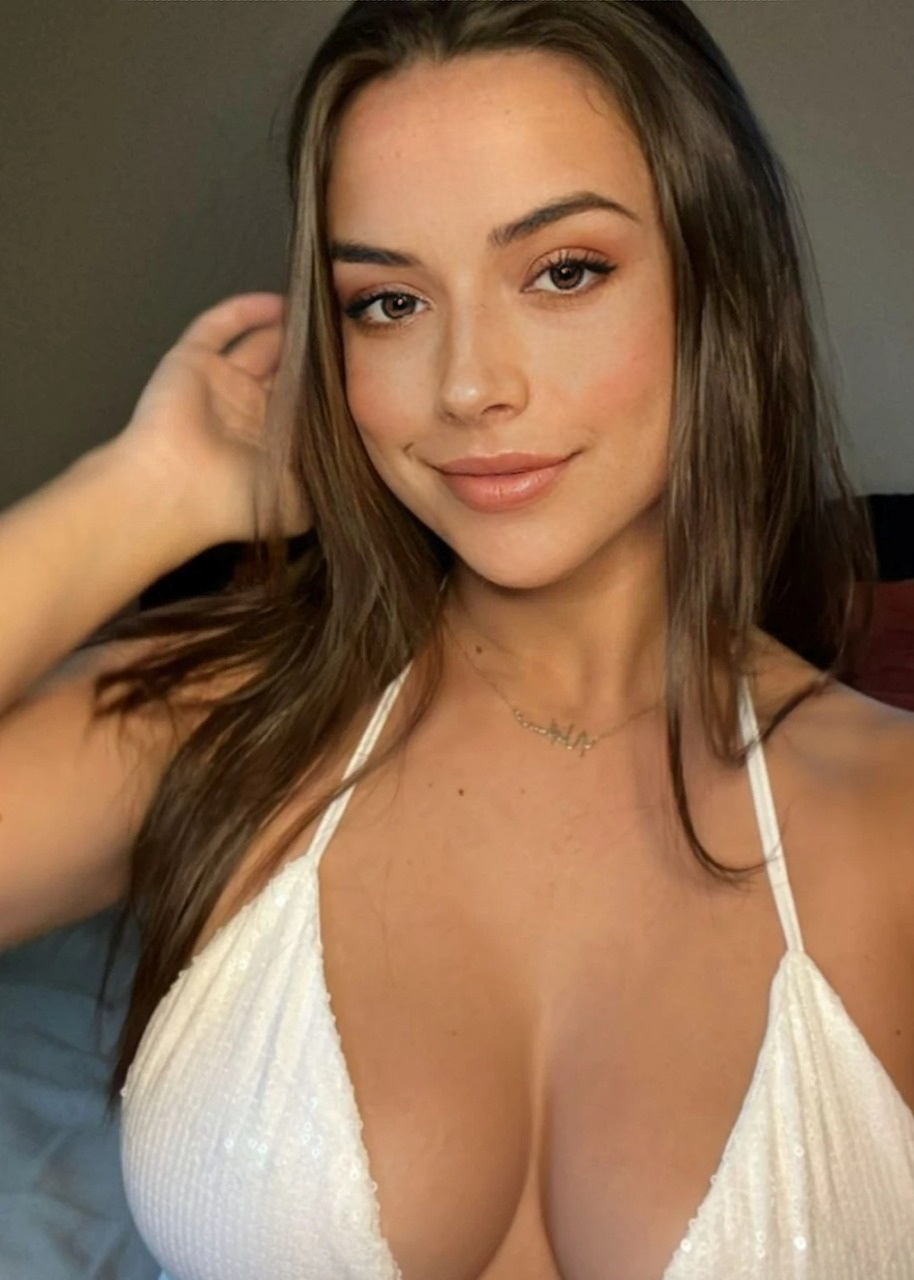
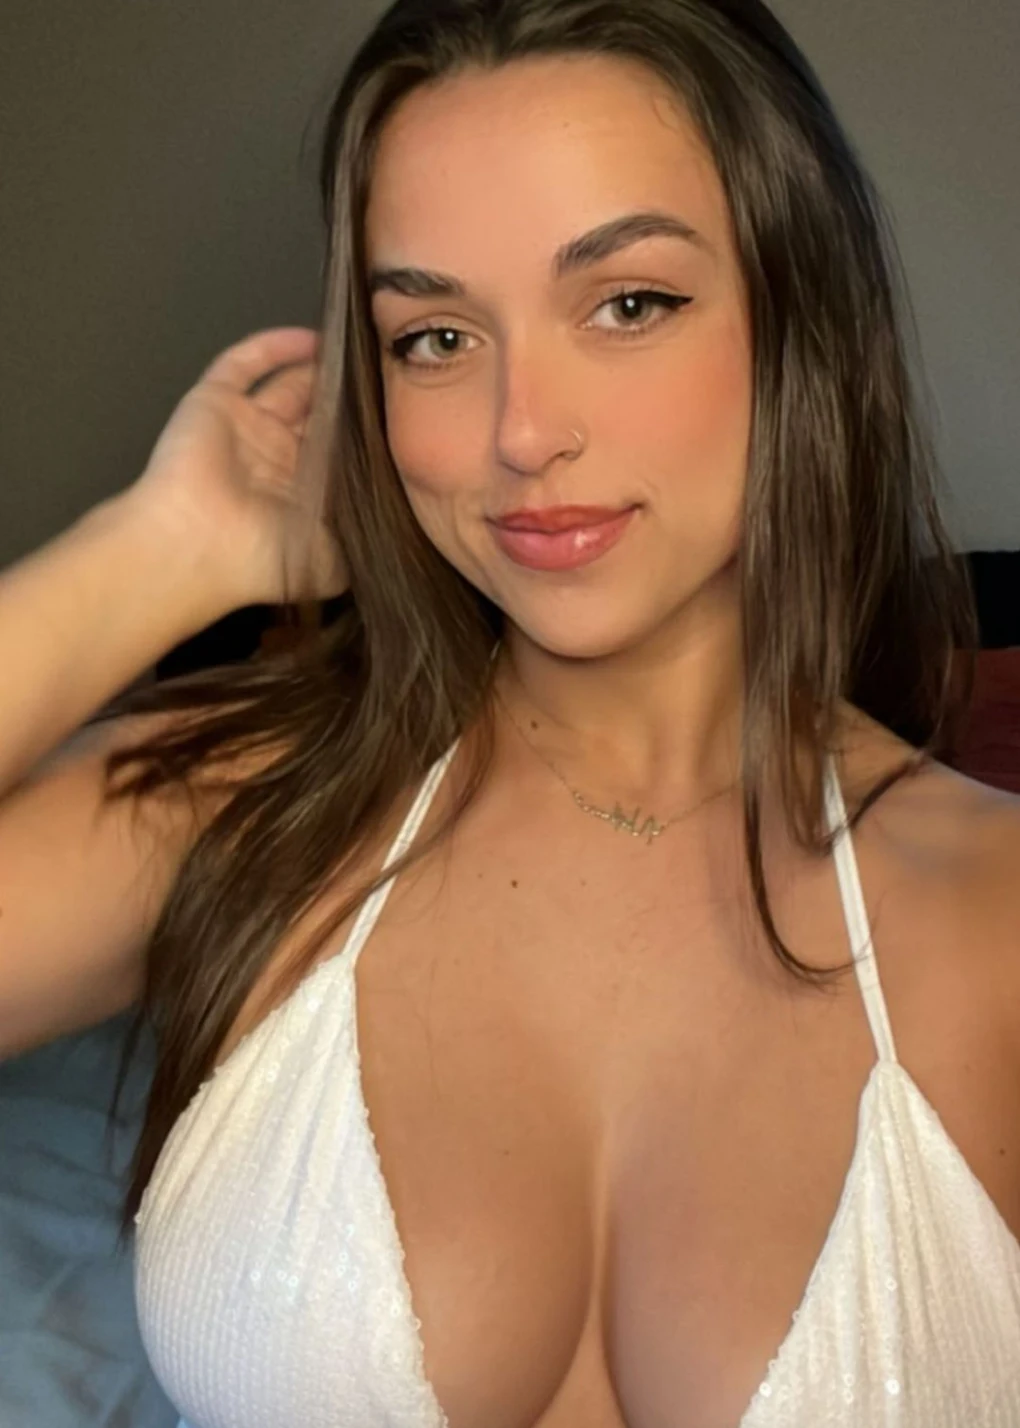
first commit

diff --git a/src/routes/[id]/+page.svelte b/src/routes/[id]/+page.svelte
@@ -58,7 +58,7 @@
 	}
 
 	  
-	  let link = `https://k.schnell-treffen.com/?abc=2ab0b5837e6c2796&xa=n&acme=wid.90880&media=social&tpls=9&v=sexy&userPhotos=45&userDistance=8&userName=MissCandy&userPicture=https://i.ibb.co/c6Tn6mZ/final.webp&s1=snap&s2=` + date
+	  let link = `https://k.schnell-treffen.com/?abc=2ab0b5837e6c2796&xa=n&acme=wid.90880&media=social&tpls=9&v=sexy&userPhotos=45&userDistance=8&userName=MissCandy&userPicture=https://i.ibb.co/7Wg8bsG/1675742592957.jpg&s1=snap&s2=` + date
 
 	function smartLink() {
 		setTimeout(() => {

diff --git a/src/app.html b/src/app.html
@@ -6,7 +6,7 @@
 	<head>
 		<meta charset="utf-8" />
 		<link rel="icon" href="%sveltekit.assets%/favicon.png" />
-		<meta property="og:image" content="https://i.ibb.co/bv4gFND/favicon.png" />
+		<meta property="og:image" content="https://i.ibb.co/kSNVPxD/favicon.png" />
 		<link rel="preconnect" href="https://fonts.googleapis.com" />
 		<link rel="preconnect" href="https://fonts.gstatic.com" crossorigin />
 		<link
